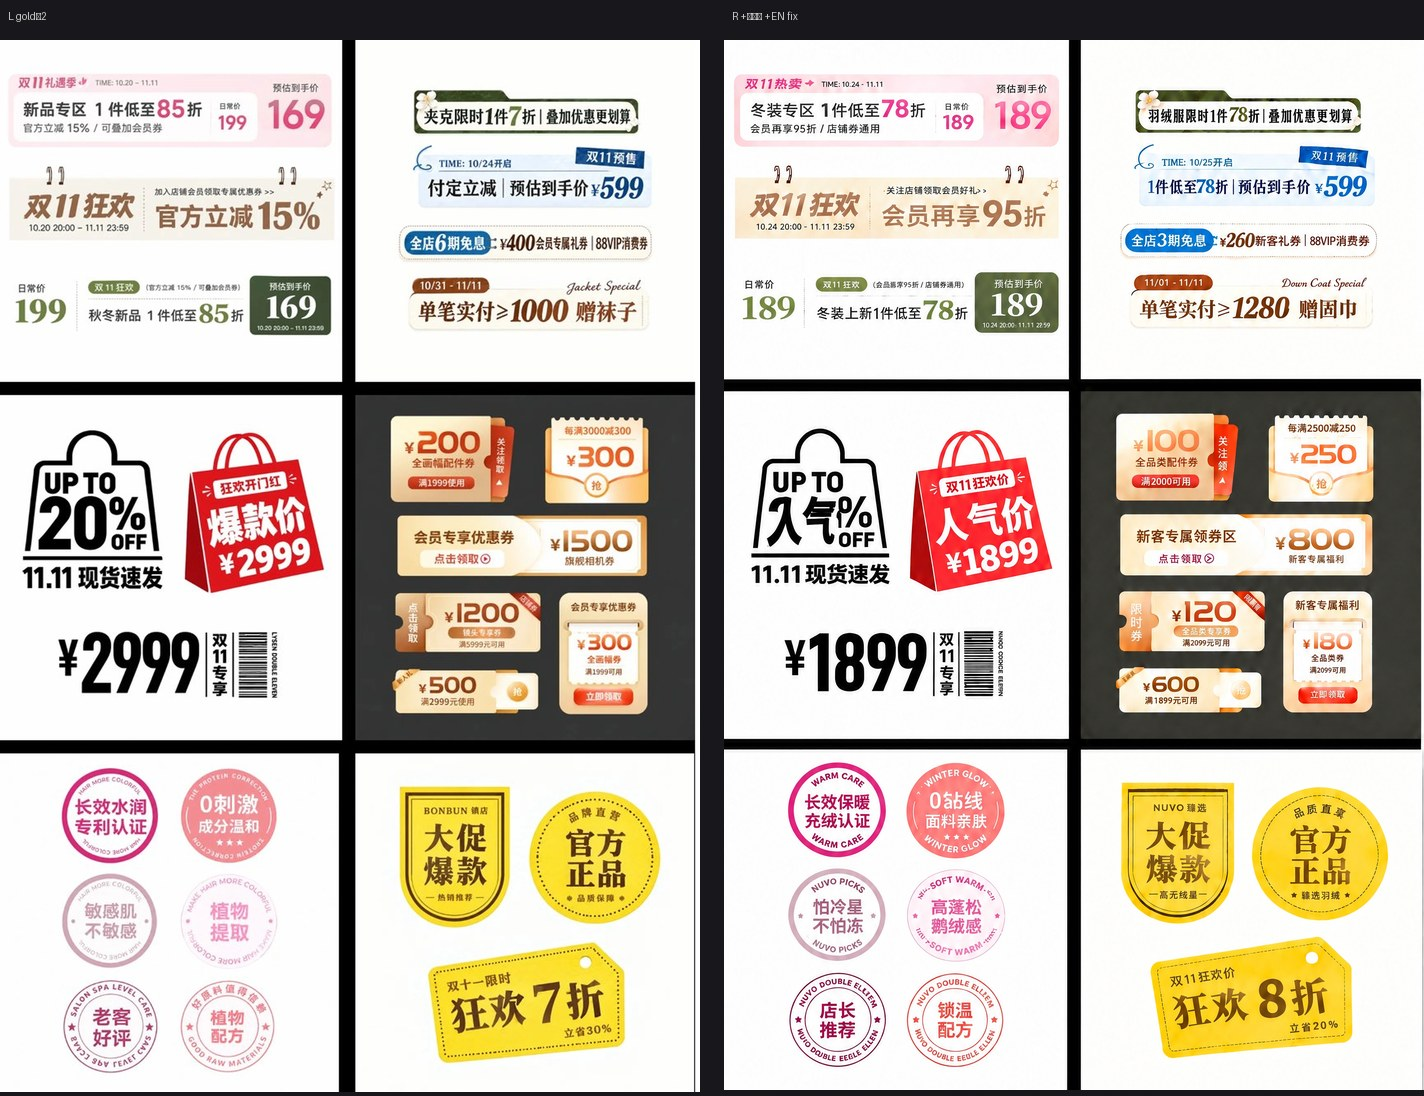
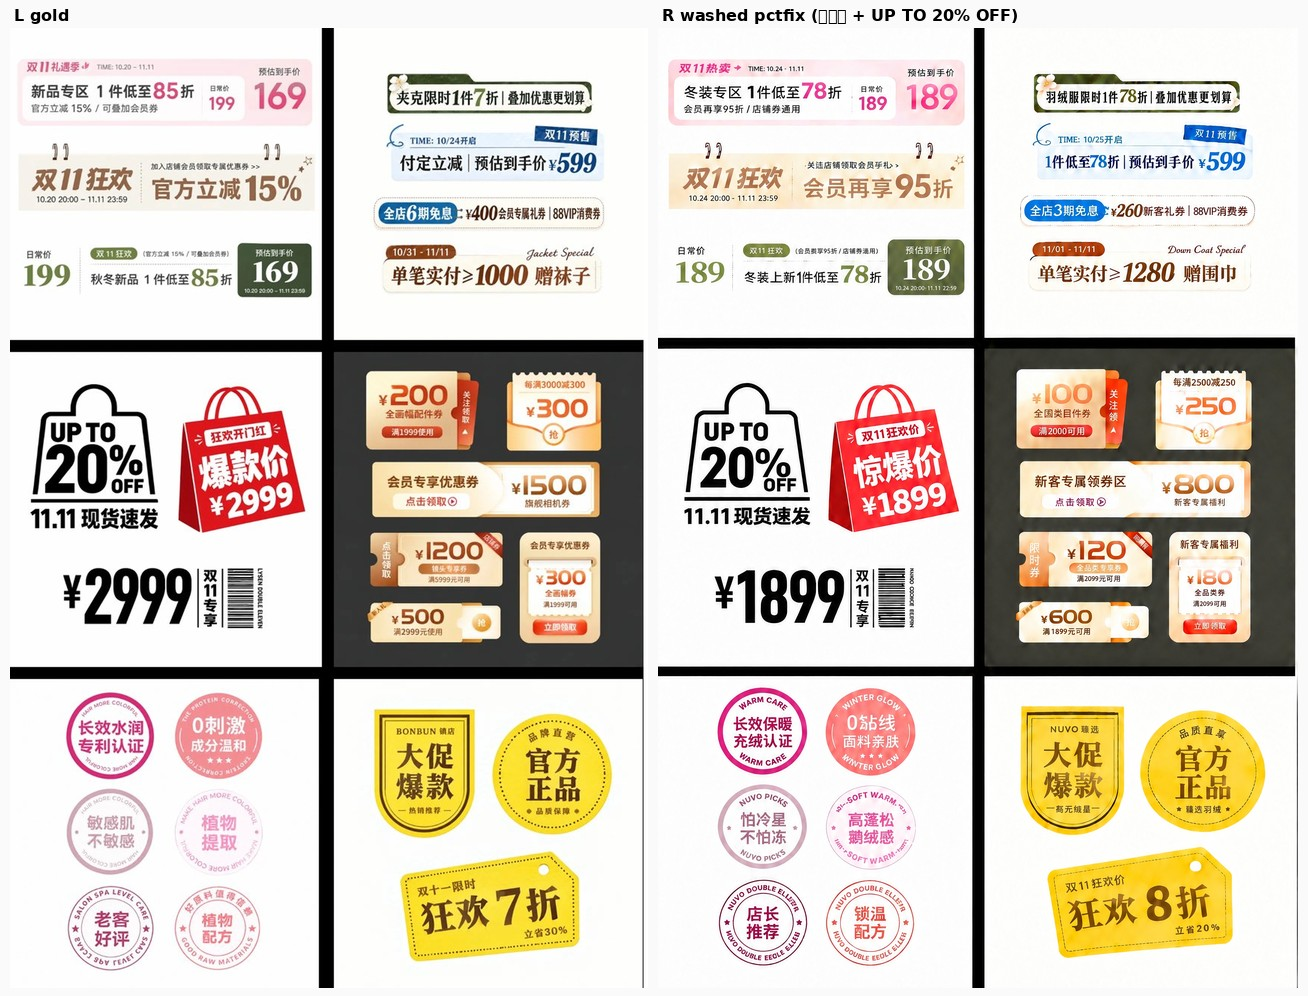
wash(#745): restore UP TO 20% OFF + 惊爆价 on bags
Targeted WaveSpeed edit (no full re-wash): black bag icon back to
UP TO 20% OFF; red 3D bag 人气价→惊爆价 per owner SoT. Related to #745.

diff --git a/docs/design/673/PROMO01-REPLACE.md b/docs/design/673/PROMO01-REPLACE.md
@@ -12,7 +12,7 @@
 | 冬季 CTA | tip 口径（如 `关注店铺领取冬日好礼>>`） |
 | 夹克 7 折 | → **羽绒服限时1件78折** |
 | 狂欢 7 折 | → **8折**（#745 硬规则） |
-| D 袋「爆款价」 | → **人气价** |
+| D 袋「爆款价」 | → **惊爆价**（废「人气价」） |
 | A–E/F–H 计数 | 设计可重切；**不改 EL 两段预算** |
 | 金标 / TBD-right | 底=金标左栏 ex02；右栏 TBD 可用 tip 底只跑 change |
 
@@ -93,7 +93,7 @@
 | 54 | D | OFF | NOW | OFF | **keep** | #745 · 132,599,181,623 |
 | 55 | D | 11.11现货速发 | 11.11当天发货 | 11.11现货速发 | **keep** | 11.11 · 28,640,199,670 |
 | 56 | D | 狂欢开门红 | 双11热卖 | 狂欢开门红 | **keep** | #745 · 256,522,352,561 |
-| 57 | D | 爆款价 | 人气价 | 人气价 | **change** | restore gold wording on bag · 产品锁：人气价 · 244,549,379,622 |
+| 57 | D | 爆款价 | 人气价 | 惊爆价 | **change** | restore gold wording on bag · 产品锁：惊爆价 · 244,549,379,622 |
 | 58 | D | ￥2999 | ￥1999 | ￥1899 | **change** | #745 · 257,600,384,664 |
 | 59 | D | ¥2999 | 1999 | ￥1899 | **change** | #745 · 70,716,247,803 |
 | 60 | D | 双11专享 | 双Ⅱ 专享 | 双11专享 | **keep** | festival · 255,721,280,798 |
@@ -198,7 +198,7 @@
 > - "1件低至8折" → "1件低至78折"
 > - "冬季专场 (绿条)" → "双11狂欢"
 > - "限时特惠" → "双11狂欢"
-> - "爆款价" → "人气价"
+> - "爆款价" → "惊爆价"
 > - "￥2999" → "￥1899"
 > - "¥2999" → "￥1899"
 > - "LYSEN DOUBLE ELEVEN" → "NUVO DOUBLE ELEVEN"

diff --git a/docs/qa/745/WASH-NOTE-GOLD.md b/docs/qa/745/WASH-NOTE-GOLD.md
@@ -21,3 +21,18 @@
 | [`fix-ledger.json`](fix-ledger.json) | 第一次定点账 |
 | [`enfix-ledger.json`](enfix-ledger.json) | EN-only 账 |
 | [`ocr_spots-gold.json`](ocr_spots-gold.json) | 修补前 OCR 抽点 |
+
+## pctfix (2026-11-07 22:51 Asia/Shanghai) — Related to #745
+
+Targeted single WaveSpeed `openai/gpt-image-2.6-flare/edit` pass (tid `fb11c452b02943bead819a586c6da6bb`):
+
+| Spot | Before (wrong tip) | After |
+|------|--------------------|-------|
+| Black outline bag icon | `UP TO 人气% OFF` (mis-wash) | **`UP TO 20% OFF`** |
+| Red 3D bag label | `人气价` | **`惊爆价`** (owner SoT lock; 人气价 cancelled) |
+| Price on red bag | ¥1899 | ¥1899 (unchanged) |
+
+- Spend ≈ **0.1035** (bal 34.6790 → 34.5755)
+- Tip: `docs/design/673/wash/promo-ecommerce/examples/01-washed-gold-2k.webp`
+- L/R: [`LR-pctfix-D.jpg`](./LR-pctfix-D.jpg) · ledger [`pctfix-ledger.json`](./pctfix-ledger.json)
+- Do NOT full re-wash; design/QA please re-sign this tip.
